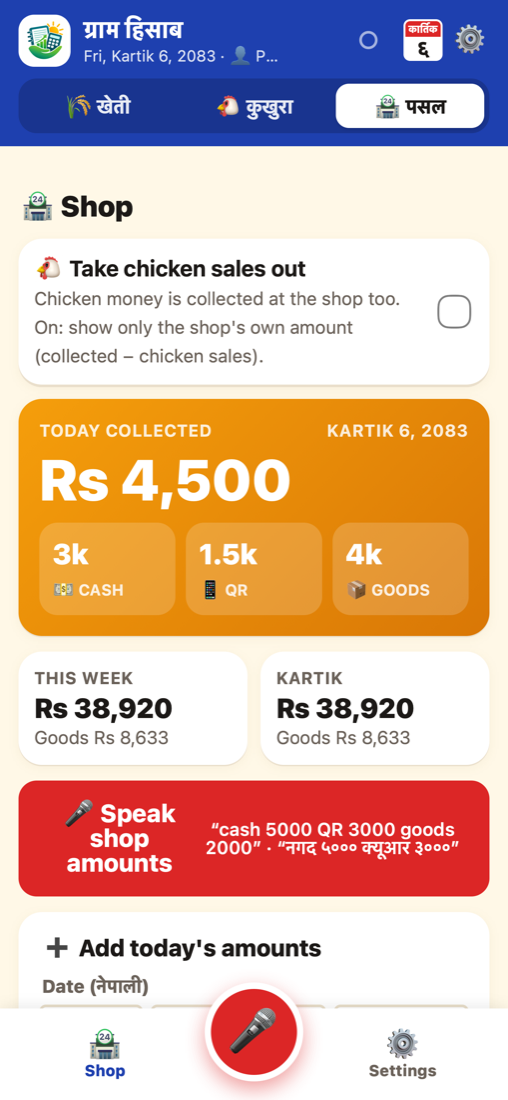
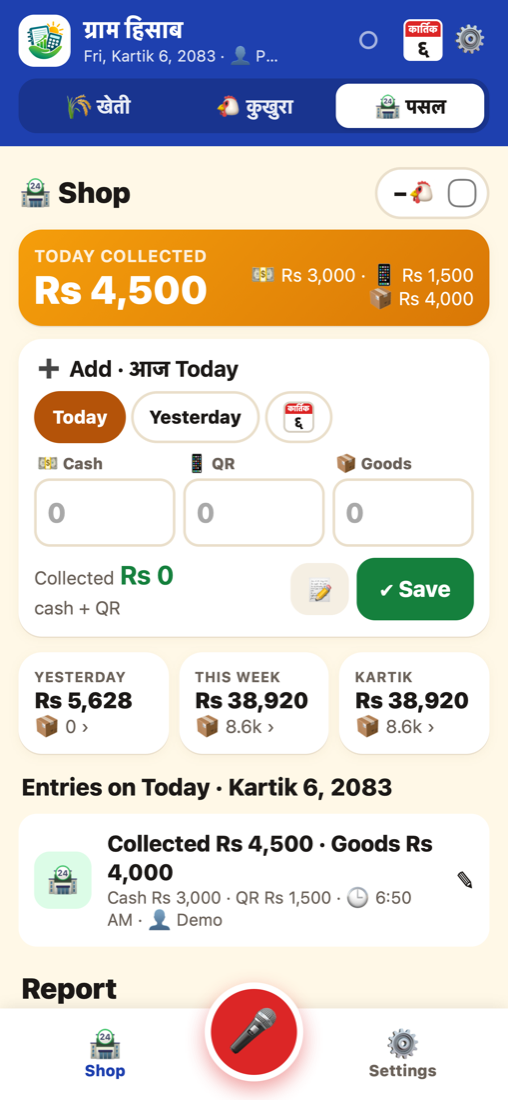
Shop: compact first view (today, one-row entry, yesterday/week/month with every-day list), small −🐔 switch; voice guide button on the mic screen

diff --git a/assets/shop.js b/assets/shop.js
@@ -2,7 +2,7 @@
 'use strict';
 
 let shopDraft = null;
-let shopTab = 'daily';
+let shopTab = 'daily', shopDateOpen = false, shopNoteOpen = false;
 
 function shopSum(list) {
   const o = { cash: 0, qr: 0, goods: 0, n: list.length, days: new Set(list.map(r => r.date)).size };
@@ -23,17 +23,22 @@ const shopSplit = o => shopLess() ? `Collected ${money(o.total)} − 🐔 chicke
 // ---------- entry form ----------
 function newShopDraft(date) { return { kind: 'shop', date: date || today(), cash: '', qr: '', goods: '', note: '' }; }
 function shopFormHtml(d) {
-  const editing = !!d.id;
-  const inp = (f, label, color) => `<div class="field"><label>${label}</label><input data-s="${f}" ${calcAttrs()} value="${esc(d[f] == null ? '' : d[f])}" placeholder="0" style="font-size:24px;${color ? 'border-color:' + color : ''}"></div>`;
-  return `<div class="card" id="shopForm">
-    <h3 style="margin-top:0">${editing ? '✎ Edit entry' : '➕ Add today\'s amounts'}</h3>
-    <div class="field"><label>Date (नेपाली)</label>${bsDateHtml('shop', d.date)}</div>
-    <div class="grid2">${inp('cash', '💵 Cash collected')}${inp('qr', '📱 QR collected')}</div>
-    ${inp('goods', '📦 Goods bought (Rs)')}
-    <div class="totalbox"><span><b style="font-size:15px">COLLECTED</b><br><span class="small" id="shopNetTxt">${shopFormNet(d)}</span></span><b id="shopTotal">${money((num(d.cash) || 0) + (num(d.qr) || 0))}</b></div>
-    <div class="field"><label>Note <span class="muted">(optional)</span></label><input data-s="note" value="${esc(d.note || '')}" placeholder="—" autocomplete="off"></div>
-    <button class="btn big green" data-act="saveShop">✔ ${editing ? 'Update' : 'Save'}</button>
-    ${editing ? `<div style="height:10px"></div><div class="btnrow"><button class="btn ghost" data-act="cancelShopEdit">Cancel</button><button class="btn redl" data-act="deleteShop" data-id="${d.id}">🗑 Delete</button></div>${historyHtml(d.id)}` : ''}
+  const editing = !!d.id, t = today(), y = addDays(t, -1);
+  const box = (f, label) => `<label><span>${label}</span><input data-s="${f}" ${calcAttrs()} value="${esc(d[f] == null || d[f] === 0 ? '' : d[f])}" placeholder="0"></label>`;
+  return `<div class="card tight" id="shopForm">
+    <div class="row between" style="gap:6px;flex-wrap:wrap">
+      <b>${editing ? '✎ Edit' : '➕ Add'} · ${d.date === t ? 'आज Today' : esc(fmtDate(d.date))}</b>
+      <span class="chips" style="gap:4px">
+        <button class="chip sm ${d.date === t ? 'on' : ''}" data-act="bsQuick" data-key="shop" data-days="0">Today</button>
+        <button class="chip sm ${d.date === y ? 'on' : ''}" data-act="bsQuick" data-key="shop" data-days="-1">Yesterday</button>
+        <button class="chip sm ${d.date !== t && d.date !== y ? 'on' : ''}" data-act="shopDatePick" aria-label="Other date">${calTile()}</button></span></div>
+    <div id="shopDateBox" class="${shopDateOpen ? '' : 'hidden'}" style="margin-top:6px">${bsDateHtml('shop', d.date)}</div>
+    <div class="hshop shopboxes">${box('cash', '💵 Cash')}${box('qr', '📱 QR')}${box('goods', '📦 Goods')}</div>
+    <div class="row between" style="margin-top:8px;gap:8px">
+      <span style="min-width:0"><span class="small muted">Collected</span> <b id="shopTotal" style="font-size:20px;color:var(--green)">${money((num(d.cash) || 0) + (num(d.qr) || 0))}</b><br><span class="small muted" id="shopNetTxt">${shopFormNet(d)}</span></span>
+      <span class="row" style="gap:6px;flex:none"><button class="btn sm ghost" data-act="shopNoteToggle" aria-label="Note">📝</button><button class="btn green" data-act="saveShop" style="padding:12px 18px">✔ ${editing ? 'Update' : 'Save'}</button></span></div>
+    <div class="field ${d.note || shopNoteOpen ? '' : 'hidden'}" id="shopNoteBox" style="margin:8px 0 0"><input data-s="note" value="${esc(d.note || '')}" placeholder="Note (optional)" autocomplete="off"></div>
+    ${editing ? `<div class="btnrow" style="margin-top:8px"><button class="btn sm ghost" data-act="cancelShopEdit">Cancel</button><button class="btn sm redl" data-act="deleteShop" data-id="${d.id}">🗑 Delete</button></div>${historyHtml(d.id)}` : ''}
   </div>`;
 }
 function shopFormNet(d) {
@@ -96,8 +101,9 @@ function shopBars(rows) {
     <div class="row small" style="justify-content:center;gap:14px;margin-top:6px"><span><b style="color:var(--green)">■</b> ${shopLess() ? 'Shop only (after chicken)' : 'Collected (cash + QR)'}</span><span><b style="color:var(--red)">■</b> Goods bought</span></div>`;
 }
 // one day (daily), one week or one month of shop entries, opened from a chart bar
-function openShopDay(from) {
+function openShopDay(from, title) {
   const rows = shopReportRows(shopTab), r = rows.find(x => x.from === from) || { label: fmtDate(from, true), from, to: from };
+  if (title && r.from === r.to) r.label = title + ' · ' + fmtDate(from, true).replace(/^(Today|Yesterday) · /, '');
   const list = shopEntries(r.from, r.to).sort((a, b) => b.date.localeCompare(a.date) || b.createdAt - a.createdAt);
   const s = shopRange(r.from, r.to);
   openSheet(`<h2>🏪 ${esc(r.label)}</h2>
@@ -122,27 +128,19 @@ function renderShop() {
   const withData = rows.filter(r => r.s.n);
   const tot = withData.length ? shopRange(rows[rows.length - 1].from, rows[0].to) : Object.assign(shopSum([]), { chicken: 0, own: 0 });
   const avgDays = tot.days || 1;
+  const yd = addDays(t, -1), yy = shopRange(yd, yd);
+  const mini = (o, label, from, to) => `<button class="card tight shopmini" data-act="shopRange" data-from="${from}" data-to="${to}" data-label="${esc(label)}">
+      <div class="label">${esc(label)}</div><div class="v">${money(shopShown(o))}</div><div class="small muted">📦 ${shortMoney(o.goods)}${shopLess() && o.chicken ? ' · 🐔 −' + shortMoney(o.chicken) : ''} ›</div></button>`;
   $('#v-shop').innerHTML = `
-    <h2>🏪 Shop</h2>
-    <label class="switch card tight" style="margin-bottom:10px"><span><b>🐔 Take chicken sales out</b><br><span class="small muted">Chicken money is collected at the shop too. On: show only the shop's own amount (collected − chicken sales).</span></span>
-      <input type="checkbox" data-act="shopLessChicken" ${shopLess() ? 'checked' : ''}></label>
-    <div class="card today">
-      <div class="row between"><div class="label">${shopLess() ? 'Today · shop only' : 'Today collected'}</div><div class="label">${fmtDate(t, true).replace('Today · ', '')}</div></div>
-      <div class="huge" style="margin:6px 0 ${shopLess() ? 2 : 12}px">${money(shopShown(td))}</div>
-      ${shopLess() ? `<div class="small" style="margin-bottom:10px;opacity:.95">${shopSplit(td)}</div>` : ''}
-      <div class="grid3">
-        <div class="stat"><b>${shortMoney(td.cash)}</b><span>💵 Cash</span></div>
-        <div class="stat"><b>${shortMoney(td.qr)}</b><span>📱 QR</span></div>
-        <div class="stat"><b>${shortMoney(td.goods)}</b><span>📦 Goods</span></div>
-      </div>
+    <div class="row between" style="margin:2px 0 8px"><h2 style="margin:0">🏪 Shop</h2>
+      <label class="minitoggle" title="Take chicken sales out of the collection"><span>−🐔</span><input type="checkbox" data-act="shopLessChicken" ${shopLess() ? 'checked' : ''}></label></div>
+    <div class="card today tight shoptoday">
+      <div class="row between" style="align-items:flex-end;gap:8px">
+        <div><div class="label">${shopLess() ? 'Today · shop only' : 'Today collected'}</div><div style="font-size:30px;font-weight:900;line-height:1.1">${money(shopShown(td))}</div></div>
+        <div class="small" style="text-align:right;line-height:1.35">💵 ${money(td.cash)} · 📱 ${money(td.qr)}<br>📦 ${money(td.goods)}${shopLess() && td.chicken ? ' · 🐔 −' + money(td.chicken) : ''}</div></div>
     </div>
-    <div class="grid2">
-      <div class="card tight"><div class="label">This week</div><div style="font-size:21px;font-weight:900">${money(shopShown(wk))}</div><div class="small muted">${shopLess() ? '🐔 −' + money(wk.chicken) + ' · ' : ''}Goods ${money(wk.goods)}</div></div>
-      <div class="card tight"><div class="label">${BS_MONTHS[adToBs(t).m - 1]}</div><div style="font-size:21px;font-weight:900">${money(shopShown(mo))}</div><div class="small muted">${shopLess() ? '🐔 −' + money(mo.chicken) + ' · ' : ''}Goods ${money(mo.goods)}</div></div>
-    </div>
-
-    <button class="btn big" style="background:var(--red);color:#fff;margin-bottom:12px" data-act="shopMic">🎤 Speak shop amounts<br><span class="small" style="font-weight:600">“cash 5000 QR 3000 goods 2000” · “नगद ५००० क्यूआर ३०००”</span></button>
     ${shopFormHtml(shopDraft)}
+    <div class="grid3" style="margin-bottom:12px">${mini(yy, 'Yesterday', yd, yd)}${mini(wk, 'This week', weekStart(t), t)}${mini(mo, BS_MONTHS[adToBs(t).m - 1], bsMonthStart(t), t)}</div>
     ${dayList.length ? `<h3>Entries on ${fmtDate(shopDraft.date, true)}</h3>${dayList.map(r => `<button class="item" data-act="editShop" data-id="${r.id}">
       <div class="ic" style="background:var(--green-l)">🏪</div>
       <div class="mid"><div class="t">Collected ${money((Number(r.cash) || 0) + (Number(r.qr) || 0))}${r.goods ? ' · Goods ' + money(r.goods) : ''}</div>
@@ -227,3 +225,22 @@ function sayShop(v) {
   speak(`Today the shop collected ${sayMoney(td.total)}: cash ${sayMoney(td.cash)}, QR ${sayMoney(td.qr)}. Goods bought ${sayMoney(td.goods)}. This month collected ${sayMoney(mo.total)}.`);
 }
 function goShop() { closeSheet(); go('shop'); }
+
+// a week / month: totals and every day (tap a day for its entries; Back returns here)
+function openShopRange(from, to, label) {
+  if (from === to) { openShopDay(from, label); return; }
+  const s0 = shopRange(from, to), days = [];
+  for (let d = to; d >= from; d = addDays(d, -1)) days.push(d);
+  openSheet(`<h2>🏪 ${esc(label)}</h2><div class="small muted" style="margin:-6px 0 10px">${fmtDate(from, true)} – ${fmtDate(to, true)}</div>
+    <div class="summary">
+      <div class="line"><span>Collected <span class="small muted">(cash ${money(s0.cash)} · QR ${money(s0.qr)})</span></span><b style="color:var(--green);font-size:${shopLess() ? 17 : 22}px">${money(s0.total)}</b></div>
+      ${s0.chicken ? `<div class="line"><span>🐔 Chicken sales (on shop days)</span><b>− ${money(s0.chicken)}</b></div>` : ''}
+      ${shopLess() ? `<div class="line"><span><b>Shop only</b></span><b style="color:var(--green);font-size:22px">${money(s0.own)}</b></div>` : ''}
+      <div class="line"><span>📦 Goods bought</span><b style="color:var(--red)">${money(s0.goods)}</b></div>
+      <div class="line"><span>Days recorded</span><b>${s0.days} · avg ${money(shopShown(s0) / (s0.days || 1))}/day</b></div></div>
+    <h3>Every day</h3>
+    <div class="summary small">${days.map(d => { const x = shopRange(d, d); return `<div class="line" data-act="shopRangeDay" data-d="${d}" data-from="${from}" data-to="${to}" data-label="${esc(label)}" style="cursor:pointer">
+      <span><b>${fmtDate(d)}</b> <span class="muted">· ${WEEK_NE[weekday(d)]}</span>${x.n ? `<br><span class="muted">💵 ${money(x.cash)} · 📱 ${money(x.qr)}${x.goods ? ' · 📦 ' + money(x.goods) : ''}${shopLess() && x.chicken ? ' · 🐔 −' + money(x.chicken) : ''}</span>` : ''}</span>
+      <b style="color:${x.n ? 'var(--green)' : 'var(--muted)'};white-space:nowrap">${x.n ? money(shopShown(x)) : '—'} ›</b></div>`; }).join('')}</div>
+    <div style="height:10px"></div><button class="btn big primary" data-act="closeSheet">Close</button>`);
+}

diff --git a/assets/flows.js b/assets/flows.js
@@ -759,7 +759,7 @@ function helpHtml(short) {
     ['🤝 Parma', 'Thapa ghar parma tirne 2 din', 'parma kati baki'],
     ['Ask', 'Ram ko hisab']
   ];
-  const rows = (typeof section !== 'undefined' && section === 'kheti' ? krows : []).concat([
+  const prows = [
     ['Sell meat', 'chicken sold 1 kg', 'sold 2 kg meat lot 1'],
     ['Sell live', 'sold 3 live chickens 7 kg Ashar lot 1 at 320'],
     ['By type', 'sold 2 kg giriraj meat', 'sold 1 local chicken 2 kg live'],
@@ -784,11 +784,23 @@ function helpHtml(short) {
     ['Only amount', 'sold live 550 rupees (kg worked out from the rate)'],
     ['Birds in a sale', 'sold 2.5 kg live (app guesses 1 bird)', 'sold 3 kg meat 2 chickens cut'],
     ['Price', 'set broiler meat price 450', 'set local live price 600'],
-    ['🏪 Shop', 'shop cash 5000 QR 3000 goods 2000', 'pasal nagad 4000 qr 2500', 'पसल नगद पाँच हजार क्यूआर तीन हजार सामान दुई हजार', 'shop today'],
     ['Undo', 'undo'],
     ['नेपाली', '१ केजी मासु', 'डेढ केजी जिउँदो कुखुरा', 'आज दुई वटा कुखुरा मरे', 'बी२ दाना दुई बोरा किनेको सात हजार', 'कति कुखुरा बाँकी छ'],
     ['Nepali (roman)', '1kg masu', 'sadhe dui kg jiudo kukhura', 'hijo 1 wota kukhura maryo', 'yo mahina ko nafa kati']
-  ]);
-  return `<ul class="help">${(short ? rows.slice(0, 6) : rows).map(r => `<li><b>${r[0]}:</b> ${r.slice(1).map(x => `<code>${esc(x)}</code>`).join(' ')}</li>`).join('')}</ul>
+  ];
+  const srows = [
+    ['🏪 Shop amounts', 'cash 5000 QR 3000 goods 2000', 'nagad 4000 qr 2500', 'नगद पाँच हजार क्यूआर तीन हजार सामान दुई हजार'],
+    ['Only one', 'QR 2500', 'goods 3000', '5000 (then it asks: cash, QR or goods?)'],
+    ['Another day', 'yesterday cash 4000', 'हिजो नगद ४०००'],
+    ['Ask', 'shop today', 'पसल आज कति']
+  ];
+  const all = [['🌾 Kheti', krows], ['🐔 Chicken', prows], ['🏪 Shop', srows]];
+  const sec = typeof section !== 'undefined' ? ({ kheti: 0, poultry: 1, shop: 2 })[section] || 0 : 1;
+  const rows = all[sec][1];
+  const others = all.filter((x, i) => i !== sec);
+  const list = rs => `<ul class="help">${rs.map(r => `<li><b>${r[0]}:</b> ${r.slice(1).map(x => `<code>${esc(x)}</code>`).join(' ')}</li>`).join('')}</ul>`;
+  return `<p class="small muted" style="margin-top:0">Tap 🎤 and say it in English, roman Nepali or नेपाली. You can also type it.</p>
+    <h3 style="margin-top:4px">${all[sec][0]}</h3>${list(short ? rows.slice(0, 6) : rows)}
+    ${short ? '' : others.map(([t, rs]) => `<details><summary><b>${t}</b></summary>${list(rs)}</details>`).join('') + `<details><summary><b>📅 Patro</b></summary>${list([['Calendar', 'patro', 'calendar', 'पात्रो']])}</details>`}
     ${short ? '' : `<p class="small muted">Lots are named by Nepali date, e.g. <b>Ashar83_10_1_100</b> (Ashar 2083, day 10, 1st lot that month, 100 chicks). Say it as “Ashar lot 1”, or “lot 1” = the 1st lot on the Home screen, or by type (“the giriraj lot”). B0–B3 are feed grain sizes. Nepali works too: numbers (एक, डेढ, साढे दुई, आधा, सय, हजार), masu/मासु, jiudo/जिउँदो, mare/मरे, baki/बाँकी, dana/दाना, kineko/किनेको, gate/गते, hunchha/हजुर, hoina/पर्दैन. For Devanagari, set Voice language to नेपाली in Settings.</p>`}`;
 }

diff --git a/assets/ui.js b/assets/ui.js
@@ -1464,6 +1464,11 @@ document.addEventListener('click', e => {
     case 'deleteShop': ask({ title: 'Delete this shop entry?', buttons: [{ label: '🗑 Delete', value: 'yes', cls: 'red' }, { label: 'Keep', value: 'no' }],
       onAnswer: a => { if (a === 'yes') { removeRec(id); shopDraft = newShopDraft(shopDraft.date); renderShop(); toast('Deleted', id, true); } } }); break;
     case 'shopTab': shopTab = v; renderShop(); break;
+    case 'shopRange': openShopRange(b.dataset.from, b.dataset.to, b.dataset.label); break;
+    case 'shopRangeDay': { const f = b.dataset.from, t2 = b.dataset.to, l = b.dataset.label; openShopDay(b.dataset.d); sheetBackFn = () => openShopRange(f, t2, l); break; }
+    case 'shopDatePick': shopDateOpen = !shopDateOpen; $('#shopDateBox').classList.toggle('hidden', !shopDateOpen); break;
+    case 'shopNoteToggle': shopNoteOpen = !shopNoteOpen; $('#shopNoteBox').classList.toggle('hidden', !shopNoteOpen); if (shopNoteOpen) $('#shopNoteBox input').focus(); break;
+    case 'voiceHelp': cancelListening(); info('🎤 What can I say?', helpHtml(), '', false); break;
     case 'shopLessChicken': db.meta.shopLessChicken = !db.meta.shopLessChicken; persist(); renderShop(); break;
     case 'shareShop': shareText(shopReportText()); break;
     case 'goShop': goShop(); break;

diff --git a/assets/app.css b/assets/app.css
@@ -296,3 +296,13 @@ u.dk{background:#16A34A}u.dp{background:#F59E0B}u.ds{background:#2563EB}
 .hshop .calcbar{grid-column:1/-1}
 .calcbar button{min-width:40px}
 .calcbar .calcres{white-space:normal;font-size:13px;line-height:1.15}
+
+/* compact shop */
+.minitoggle{display:flex;align-items:center;gap:6px;background:#fff;border:2px solid var(--line);border-radius:999px;padding:4px 6px 4px 12px;font-weight:900;font-size:16px}
+.minitoggle input{width:22px;height:22px}
+.shoptoday{padding:12px 14px;margin-bottom:10px}
+.shopboxes{margin-top:8px}
+.shopboxes input{font-size:21px;padding:10px 8px}
+.shopmini{text-align:left;margin:0;padding:10px}
+.shopmini .v{font-size:17px;font-weight:900;white-space:nowrap}
+.shopmini .label{font-size:11px}

diff --git a/assets/index.html b/assets/index.html
@@ -48,6 +48,7 @@
     <div id="voiceText" class="vtext"></div>
     <div class="vhint" id="voiceHint">Say: “sold 2 kg from B1”</div>
     <button class="btn ghost big" data-act="cancelVoice">Cancel</button>
+    <button class="btn ghost" data-act="voiceHelp" style="margin-top:10px;width:100%">📖 What can I say?</button>
   </div>
 </div>
 

diff --git a/assets/core.js b/assets/core.js
@@ -2,7 +2,7 @@
 'use strict';
 
 const HAS_ANDROID = typeof window.Android !== 'undefined';
-const APP_VERSION = '2.8.0';
+const APP_VERSION = '2.9.0';
 
 // ---------- small utils ----------
 const $ = (sel, el) => (el || document).querySelector(sel);
